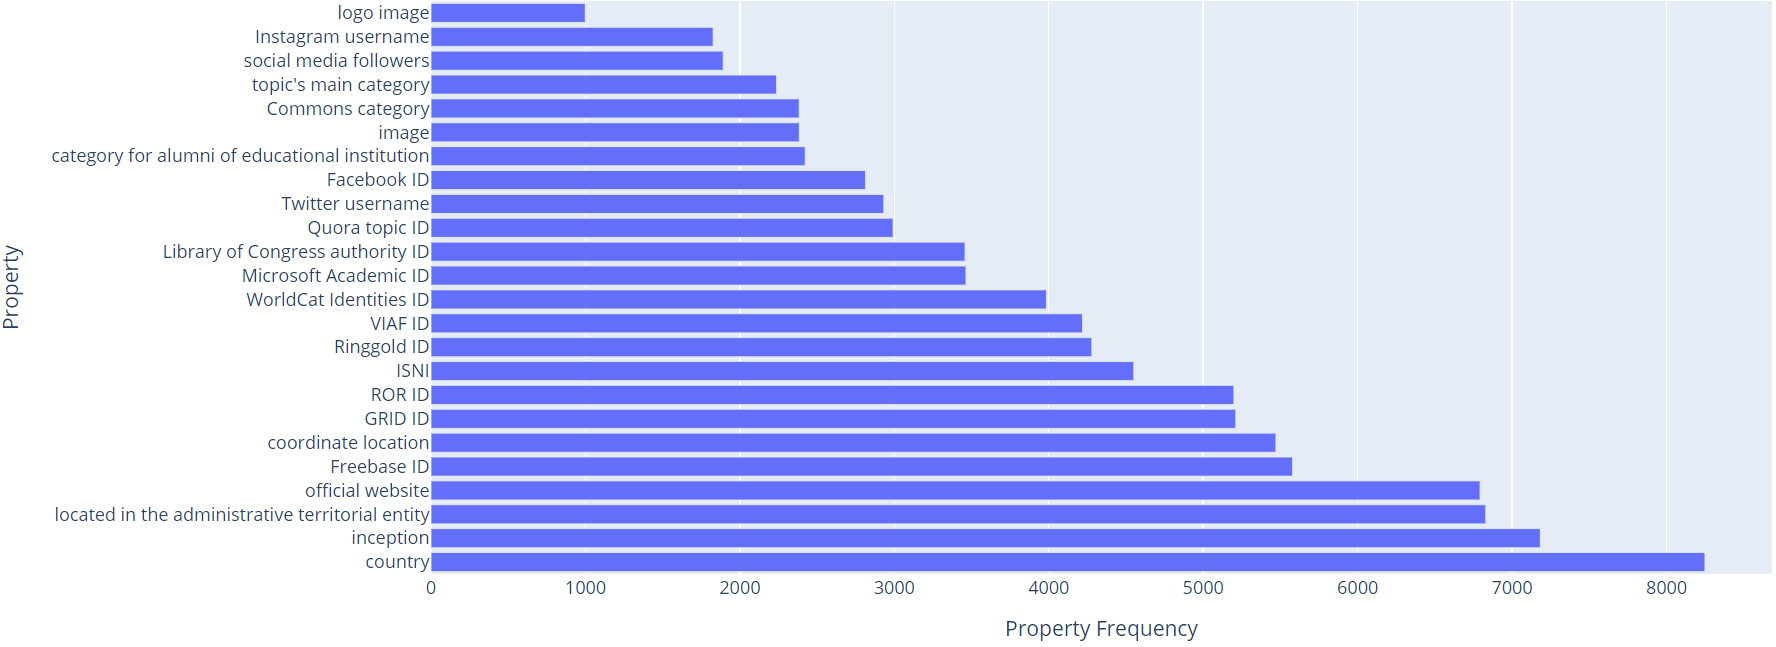
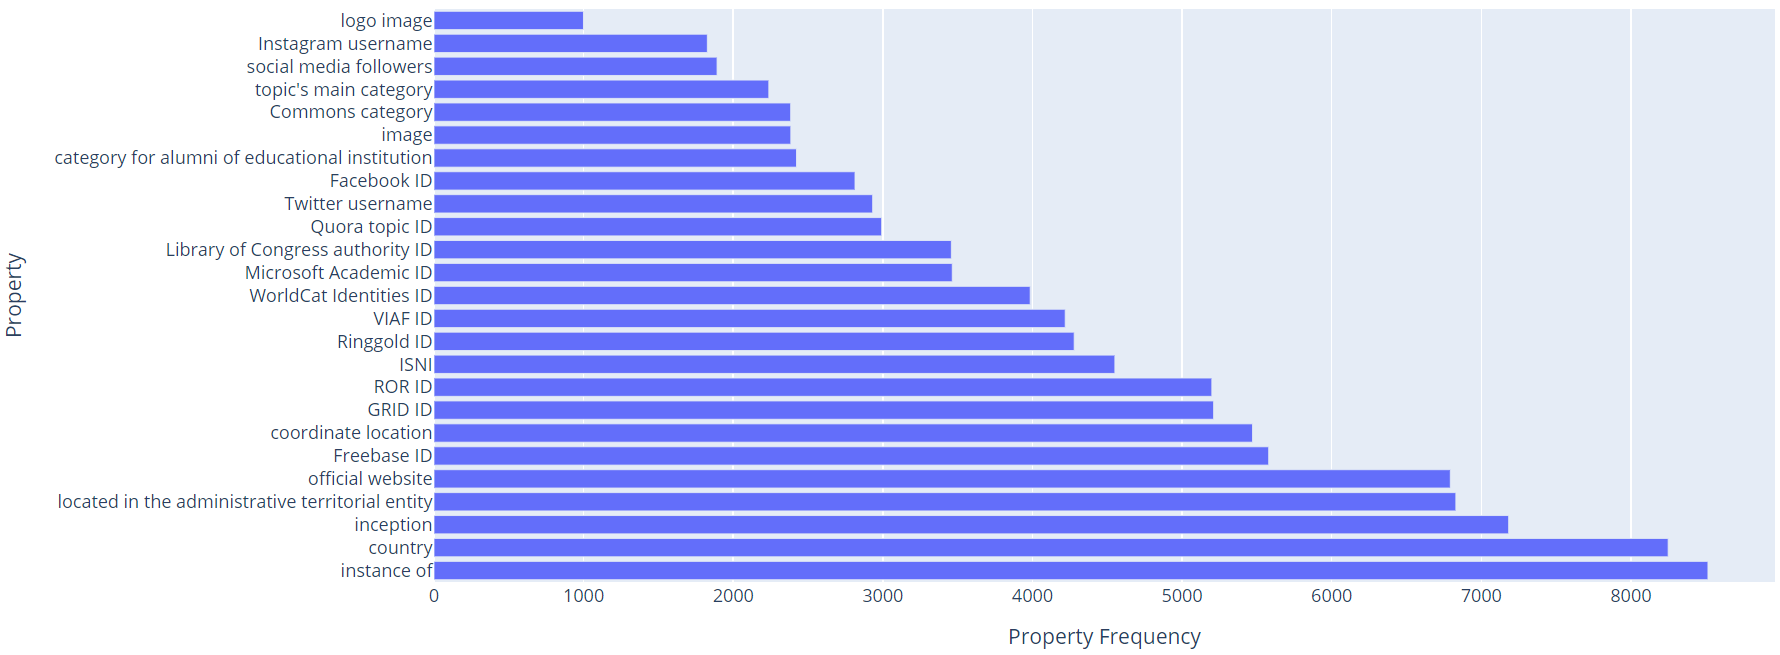
nye figurer med P31

diff --git a/Users/Magnus/PropertyDist.py b/Users/Magnus/PropertyDist.py
@@ -98,21 +98,12 @@ if __name__ == '__main__':
 
     # Uses the property_count_function to create a dataframe containing properties and their frequency.
     property_count_df = property_count_function(property_list)
-    property_count_df = property_count_df[property_count_df.Property != 'P31']  # Drops the instanceOf property
 
     # Copy of the property_count_df that should be with P-codes and not P label values
     property_count_df_without_labels = property_count_df.copy()
 
     # Uses the function replacePcodesWithPlabels on the dataframe to make a new one with P label values
     property_count_df_with_labels = replacePcodesWithPlabels(property_count_df)
-
-    # for prop in property_count_df['Property']:
-    #     # This for loop goes trough each property and replaces it with each corresponding label
-    #     if prop in list(property_label_dataframe['Property']):
-    #         prop_label_value = property_label_dataframe.loc[property_label_dataframe['Property'] == prop,
-    #                                                         'Value'].iloc[0]
-    #         # This line replaces the P-code with the P label value
-    #         property_count_df['Property'].replace({prop: prop_label_value}, inplace=True)
 
     number_of_properties_above_1000 = []
     number_of_properties_below_1000 = []
@@ -134,7 +125,7 @@ if __name__ == '__main__':
 
     # Horizontal barplot with top 24 P label values and their frequency
     fig_with_labels = go.Figure()
-    fig_with_labels.add_trace(go.Bar(x=property_count_df_with_labels['Frequency'][0:24],
+    fig_with_labels.add_trace(go.Bar(x=property_count_df_with_labels['Frequency'][0:25],
                                      y=property_count_df_with_labels['Property'],
                                      orientation='h'))
     fig_with_labels.update_layout(
@@ -155,7 +146,7 @@ if __name__ == '__main__':
         xaxis_title="Number of Properties",
         yaxis_title="Number of Universities"
     )
-    # university_property_fig.show()
+    university_property_fig.show()
 
-    # print("The median value for the amount of properties in universities is {}".format(np.median(count_list)))
-    # print("The average value for the amount of properties in universities is {}".format(np.average(count_list)))
+    print("The median value for the amount of properties in universities is {}".format(np.median(count_list)))
+    print("The average value for the amount of properties in universities is {}".format(np.average(count_list)))
